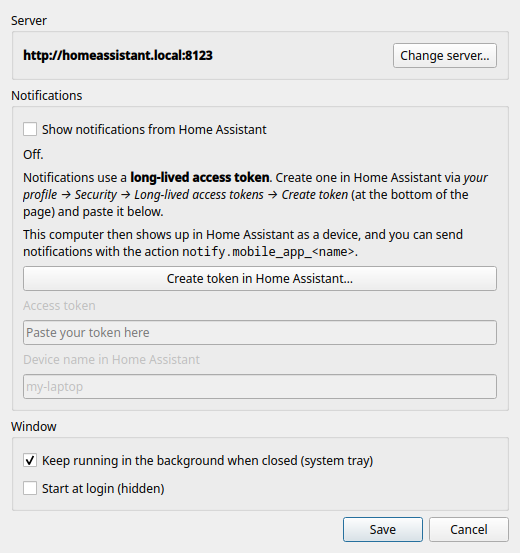
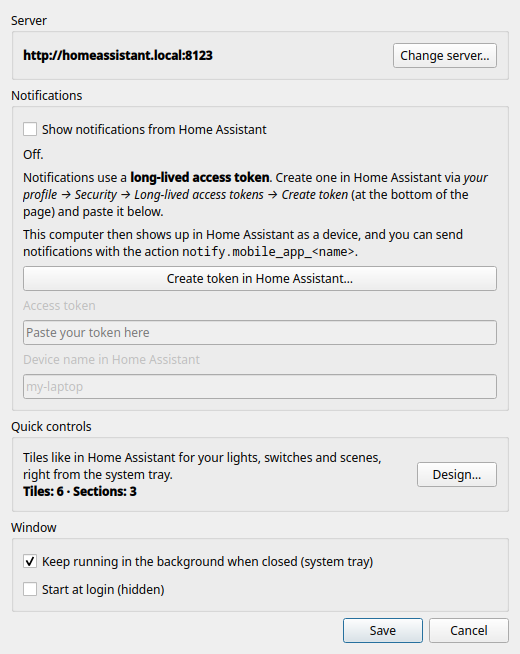
Versie 0.5.0: snelbediening
- Versienummer, RPM-changelog en release-notities (wat er nieuw is)
- Screenshots: tegelpaneel en instellingen met het blok Snelbediening (nl en en)

diff --git a/ha_desktop/__init__.py b/ha_desktop/__init__.py
@@ -1,6 +1,6 @@
 """Home Assistant Desktop (onofficieel) — desktopapp voor Linux."""
 
-__version__ = "0.4.1"
+__version__ = "0.5.0"
 
 APP_ID = "com.nordicnode.HADesktop"
 APP_NAME = "Home Assistant Desktop"

diff --git a/packaging/release-notes.md b/packaging/release-notes.md
@@ -1,3 +1,13 @@
+## ✨ New / Nieuw
+
+**Quick controls:** right-click the icon in the system tray for tiles like in Home Assistant,
+to switch and dim your lights without opening the app. Arrange them yourself under
+*Settings → Quick controls → Design…*.
+
+**Snelbediening:** klik met rechts op het icoon in het systeemvak voor tegels zoals in Home
+Assistant, om je lampen te schakelen en dimmen zonder de app te openen. Deel ze zelf in via
+*Instellingen → Snelbediening → Ontwerpen…*.
+
 ## 📦 Downloads
 
 | System | File |

diff --git a/README.md b/README.md
@@ -165,6 +165,8 @@ data:
 
 ## 💡 Snelbediening
 
+<img align="right" src="docs/screenshots/nl/quick.png" width="340" alt="Snelbediening">
+
 Bedien je lampen zonder het hoofdvenster te openen, met tegels zoals in Home Assistant:
 
 1. Open de instellingen (`Ctrl+,`) en klik bij **Snelbediening** op **Ontwerpen…**

diff --git a/README.en.md b/README.en.md
@@ -165,6 +165,8 @@ data:
 
 ## 💡 Quick controls
 
+<img align="right" src="docs/screenshots/en/quick.png" width="340" alt="Quick controls">
+
 Control your lights without opening the main window, with tiles like in Home Assistant:
 
 1. Open the settings (`Ctrl+,`) and click **Design…** under **Quick controls**.
